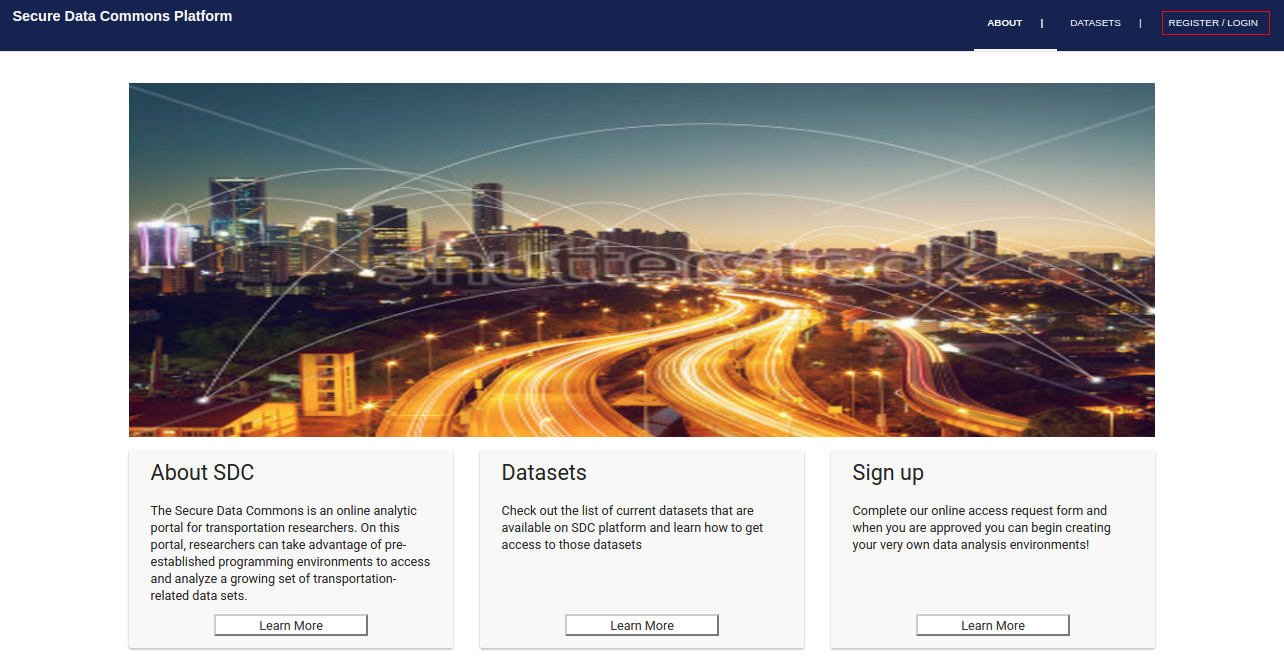
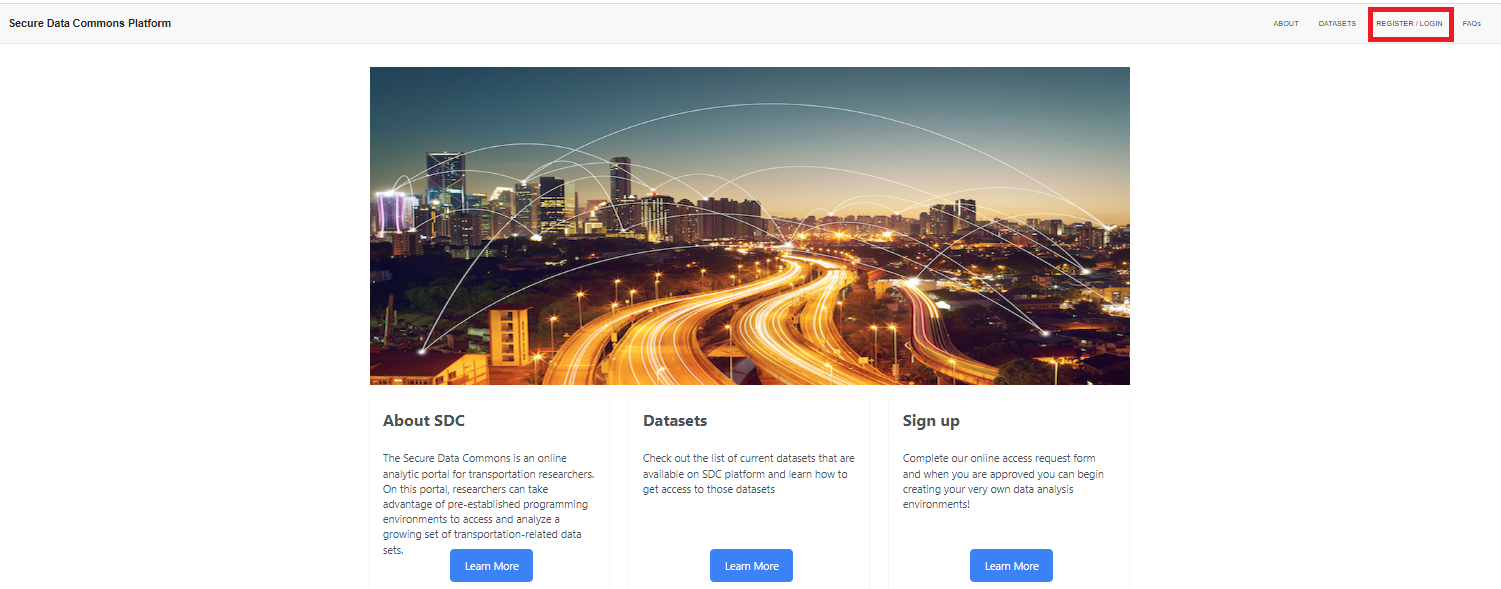
Fixed rest of screenshots

diff --git a/webportal/webapp/src/app/account/datasets/datasets.component.ts b/webportal/webapp/src/app/account/datasets/datasets.component.ts
@@ -45,35 +45,44 @@ import { FileUploadModule } from "primeng/fileupload";
 @Component({
   standalone: true,
   imports: [
+
     MatCardModule,
     MatExpansionModule,
     CommonModule,
     TableModule,
+    RouterModule,
+    //BrowserAnimationsModule,
+    MatDialogModule,
+
+
+    // MatCardModule,
+    // MatExpansionModule,
+  
     ButtonModule,
     InputTextModule,
     FormsModule,
     RouterModule,
-    MatButtonModule,
-    MatCheckboxModule,
-    MatMenuModule,
-    MatTooltipModule,
-    MatToolbarModule,
-    MatIconModule,
-    MatRadioModule,
-    MatTabsModule,
-    MatProgressSpinnerModule,
-    MatDialogModule,
-    MatInputModule,
-    MatDatepickerModule,
-    MatNativeDateModule,
+    // MatButtonModule,
+    // MatCheckboxModule,
+    // MatMenuModule,
+    // MatTooltipModule,
+    // MatToolbarModule,
+    // MatIconModule,
+    // MatRadioModule,
+    // MatTabsModule,
+    // MatProgressSpinnerModule,
+    // MatDialogModule,
+    // MatInputModule,
+    // MatDatepickerModule,
+    // MatNativeDateModule,
     CdkTableModule,
     FileUploadModule,
-    MatFormFieldModule,
-    MatSelectModule,
-    MatTableModule,
-    MatSnackBarModule,
-    //BrowserAnimationsModule,
-    MatDialogModule,
+    // MatFormFieldModule,
+    // MatSelectModule,
+    // MatTableModule,
+    // MatSnackBarModule,
+    // //BrowserAnimationsModule,
+    // MatDialogModule,
     //NoopAnimationsModule,
   ],
   selector: "app-datasets",

diff --git a/webportal/webapp/src/app/account/faq/faq.component.html b/webportal/webapp/src/app/account/faq/faq.component.html
@@ -94,11 +94,11 @@
                         <ul class = "outside">
                             <span>
                                 <li class="push-top-30" > Once you are logged in, click on 'DATASETS’ in the top menu.</li>
-                                <img src="../../assets/images/faq_image/Dataset-1.png" class="mx-auto d-block width-70" id="img-highlight">
+                                <img src="../../assets/images/faq_image/Dataset-1.PNG" class="mx-auto d-block width-70" id="img-highlight">
                             </span>
                             <span>
                                 <li class="push-top-30" >Expand the ‘SDC Datasets’ panel. Below this you can see all available datasets.</li>
-                                <img src="../../assets/images/faq_image/Dataset-2.png" class="mx-auto d-block width-70" id="img-highlight">
+                                <img src="../../assets/images/faq_image/Dataset-2.PNG" class="mx-auto d-block width-70" id="img-highlight">
                             </span>
                             <span>
                                 <li class="push-top-30">To access a given Dataset, click on 'Request'.</li>

diff --git a/webportal/webapp/src/app/main/faq/faq.component.html b/webportal/webapp/src/app/main/faq/faq.component.html
@@ -28,11 +28,11 @@
                         </span>
                         <span>
                             <li class="push-top-30">Go to ‘Register/Login’  menu tab</li>
-                            <img src="../../assets/images/faq_image/SignUp-1.png" class="mx-auto d-block width-70">
+                            <img src="../../assets/images/faq_image/SignUp-1.PNG" class="mx-auto d-block width-70" id="img-highlight">
                         </span>
                         <span>
                             <li class="push-top-30">Download the access request form, fill out the required details, and send the form by email to sdc-support@dot.gov</li>
-                            <img src="../../assets/images/faq_image/SignUp-2.png" class="mx-auto d-block width-70">
+                            <img src="../../assets/images/faq_image/SignUp-2.PNG" class="mx-auto d-block width-70" id="img-highlight">
                         </span>
                         <!-- <span>
                             <li class="push-top-30">Once approved, support team will send you an email with the instructions for accessing the platform.</li>

diff --git a/webportal/webapp/src/app/main/main.component.html b/webportal/webapp/src/app/main/main.component.html
@@ -16,13 +16,13 @@
       <div class="col-md-8" id="bs-example-navbar-collapse-1">
         <ul class="nav navbar-nav navbar-right" style="font-size: 11px">
           <li class="nav-item" routerLinkActive="active" routerLinkActiveOptions="{exact: true}">
-            <a class="nav-link" routerLink="/about">ABOUT &emsp; &nbsp;|</a>
+            <a class="nav-link" routerLink="/about">ABOUT</a>
           </li>
           <li class="nav-item" routerLinkActive="active">
-            <a class="nav-link" routerLink="/datasetinfo">DATASETS &emsp; &nbsp;|</a>
+            <a class="nav-link" routerLink="/datasetinfo">DATASETS</a>
           </li>
           <li class="nav-item" routerLinkActive="active">
-            <a class="nav-link" routerLink="/register">REGISTER / LOGIN &emsp; &nbsp;|</a>
+            <a class="nav-link" routerLink="/register">REGISTER / LOGIN</a>
           </li>
           <li class="nav-item" routerLinkActive="active">
             <a class="nav-link" routerLink="/faqs">FAQs</a>
